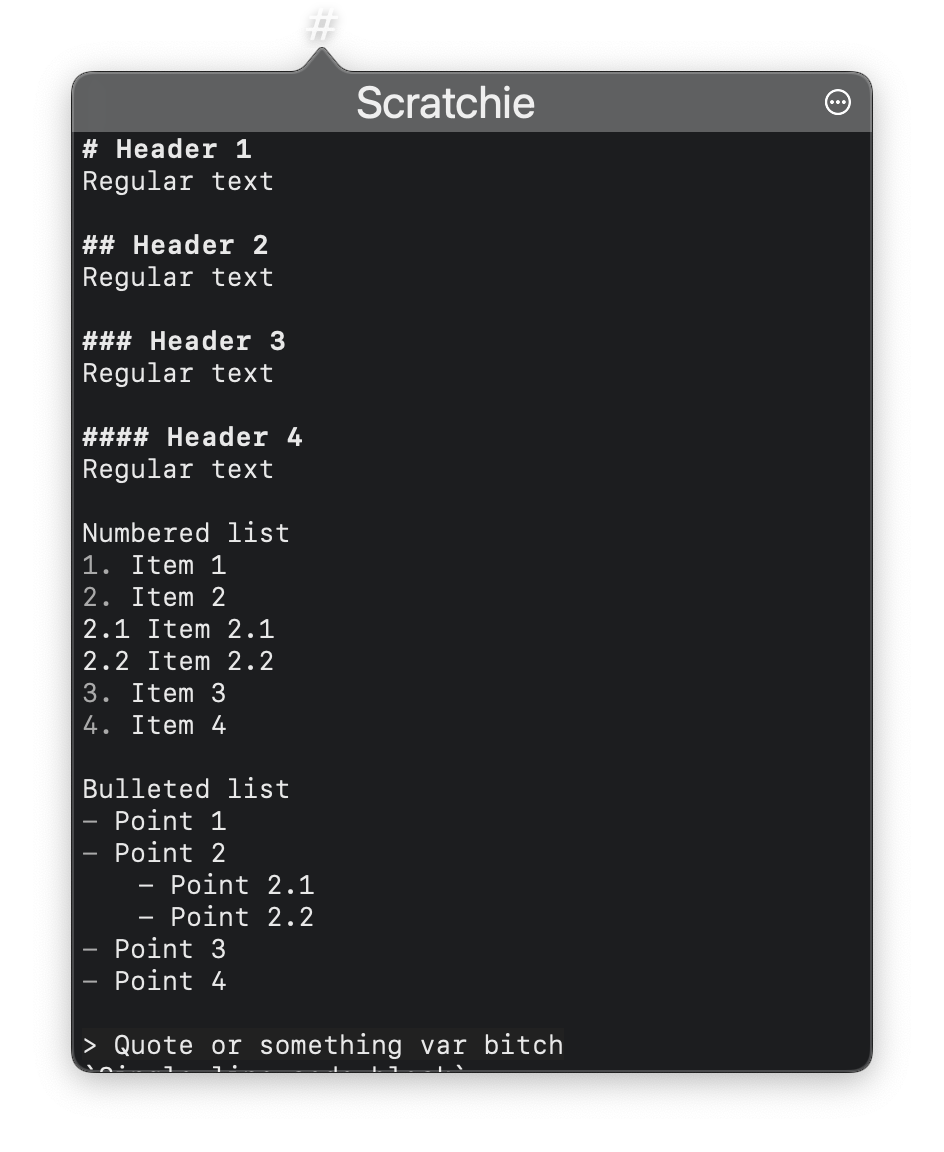
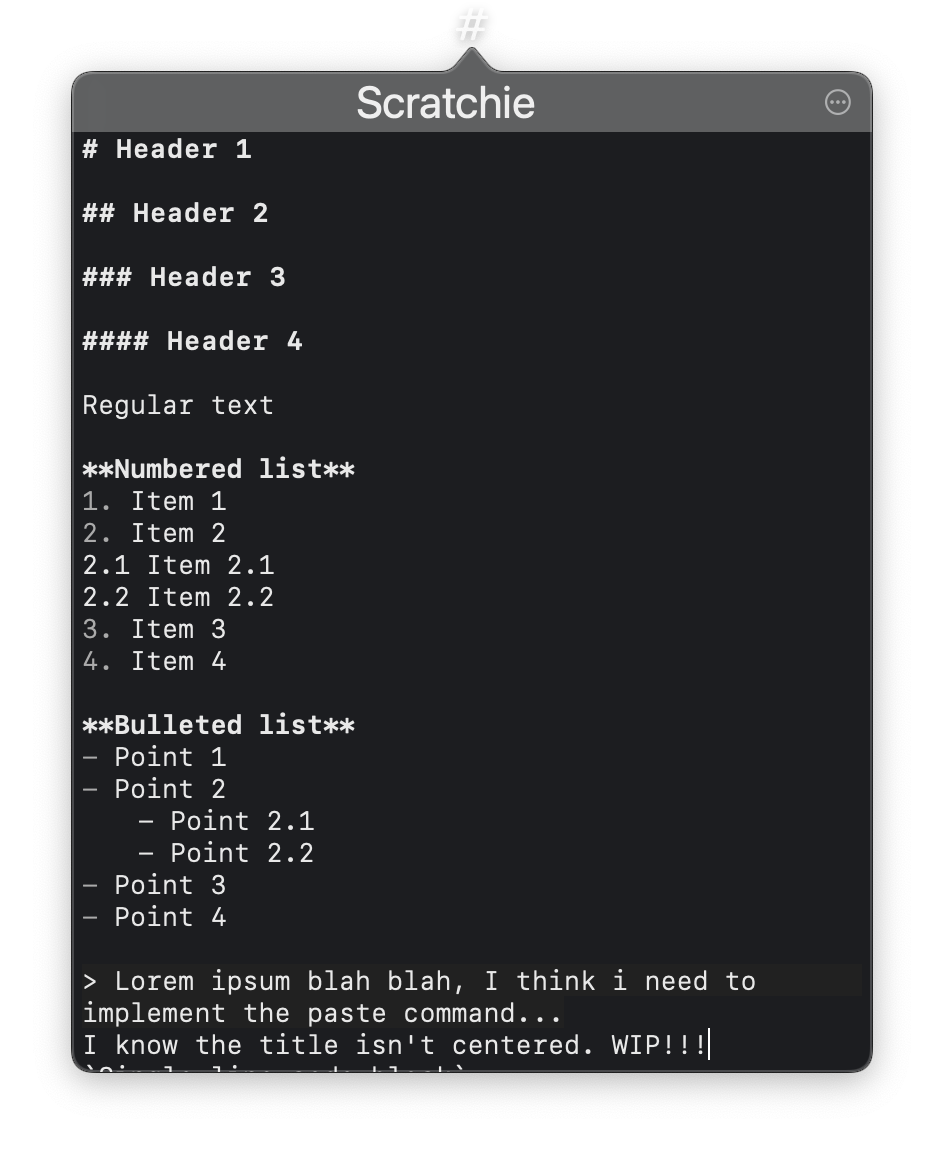
Fixed popover not being centred with the button

diff --git a/src/macos/Scratchie/Scratchie/AppDelegate.swift b/src/macos/Scratchie/Scratchie/AppDelegate.swift
@@ -5,11 +5,12 @@
 //  Created by Eoin Motherway on 27/12/20.
 //
 
+import AppKit
 import SwiftUI
 import HotKey
 
 class AppDelegate: NSObject, NSApplicationDelegate {
-    var popover = NSPopover.init()
+    var popover: NSPopover?
     var statusBarItem: NSStatusItem?
     var toggleVisibilityHotKey: HotKey?
 
@@ -20,15 +21,17 @@ class AppDelegate: NSObject, NSApplicationDelegate {
         toggleVisibilityHotKey!.keyDownHandler = togglePopover
         
         // Create the Content View
+        let size = NSSize(width: 400, height: 500)
         let contentView = ContentView()
             .environmentObject(UserData())
-            .frame(width: 400, height: 500, alignment: .center)
+            .frame(width: size.width, height: size.height, alignment: .center)
 
         // Set the SwiftUI's ContentView to the Popover's ContentViewController
         // Todo: Find out how to allow the user to resize the popover
-        popover.contentViewController = NSViewController()
-        popover.behavior = .transient
-        popover.contentViewController?.view = NSHostingView(rootView: contentView)
+        self.popover = NSPopover.init()
+        self.popover?.contentSize = size
+        self.popover?.behavior = .transient
+        self.popover?.contentViewController = NSHostingController(rootView: contentView)
                 
         // Create the status item
         self.statusBarItem = NSStatusBar.system.statusItem(withLength: CGFloat(NSStatusItem.squareLength))
@@ -38,21 +41,23 @@ class AppDelegate: NSObject, NSApplicationDelegate {
     }
     
     @objc func togglePopover() {
-        if popover.isShown {
-            closePopover()
-        } else {
-            showPopover()
+        if let popover = self.popover {
+            if popover.isShown {
+                closePopover()
+            } else {
+                showPopover()
+            }
         }
     }
     
     func showPopover() {
         // Bug: Popover is not centered
         if let button = statusBarItem?.button {
-            popover.show(relativeTo: button.bounds, of: button, preferredEdge: NSRectEdge.minY)
+            self.popover?.show(relativeTo: button.bounds, of: button, preferredEdge: NSRectEdge.minY)
         }
     }
     
     func closePopover() {
-        popover.performClose(nil)
+        self.popover?.performClose(nil)
     }
 }
